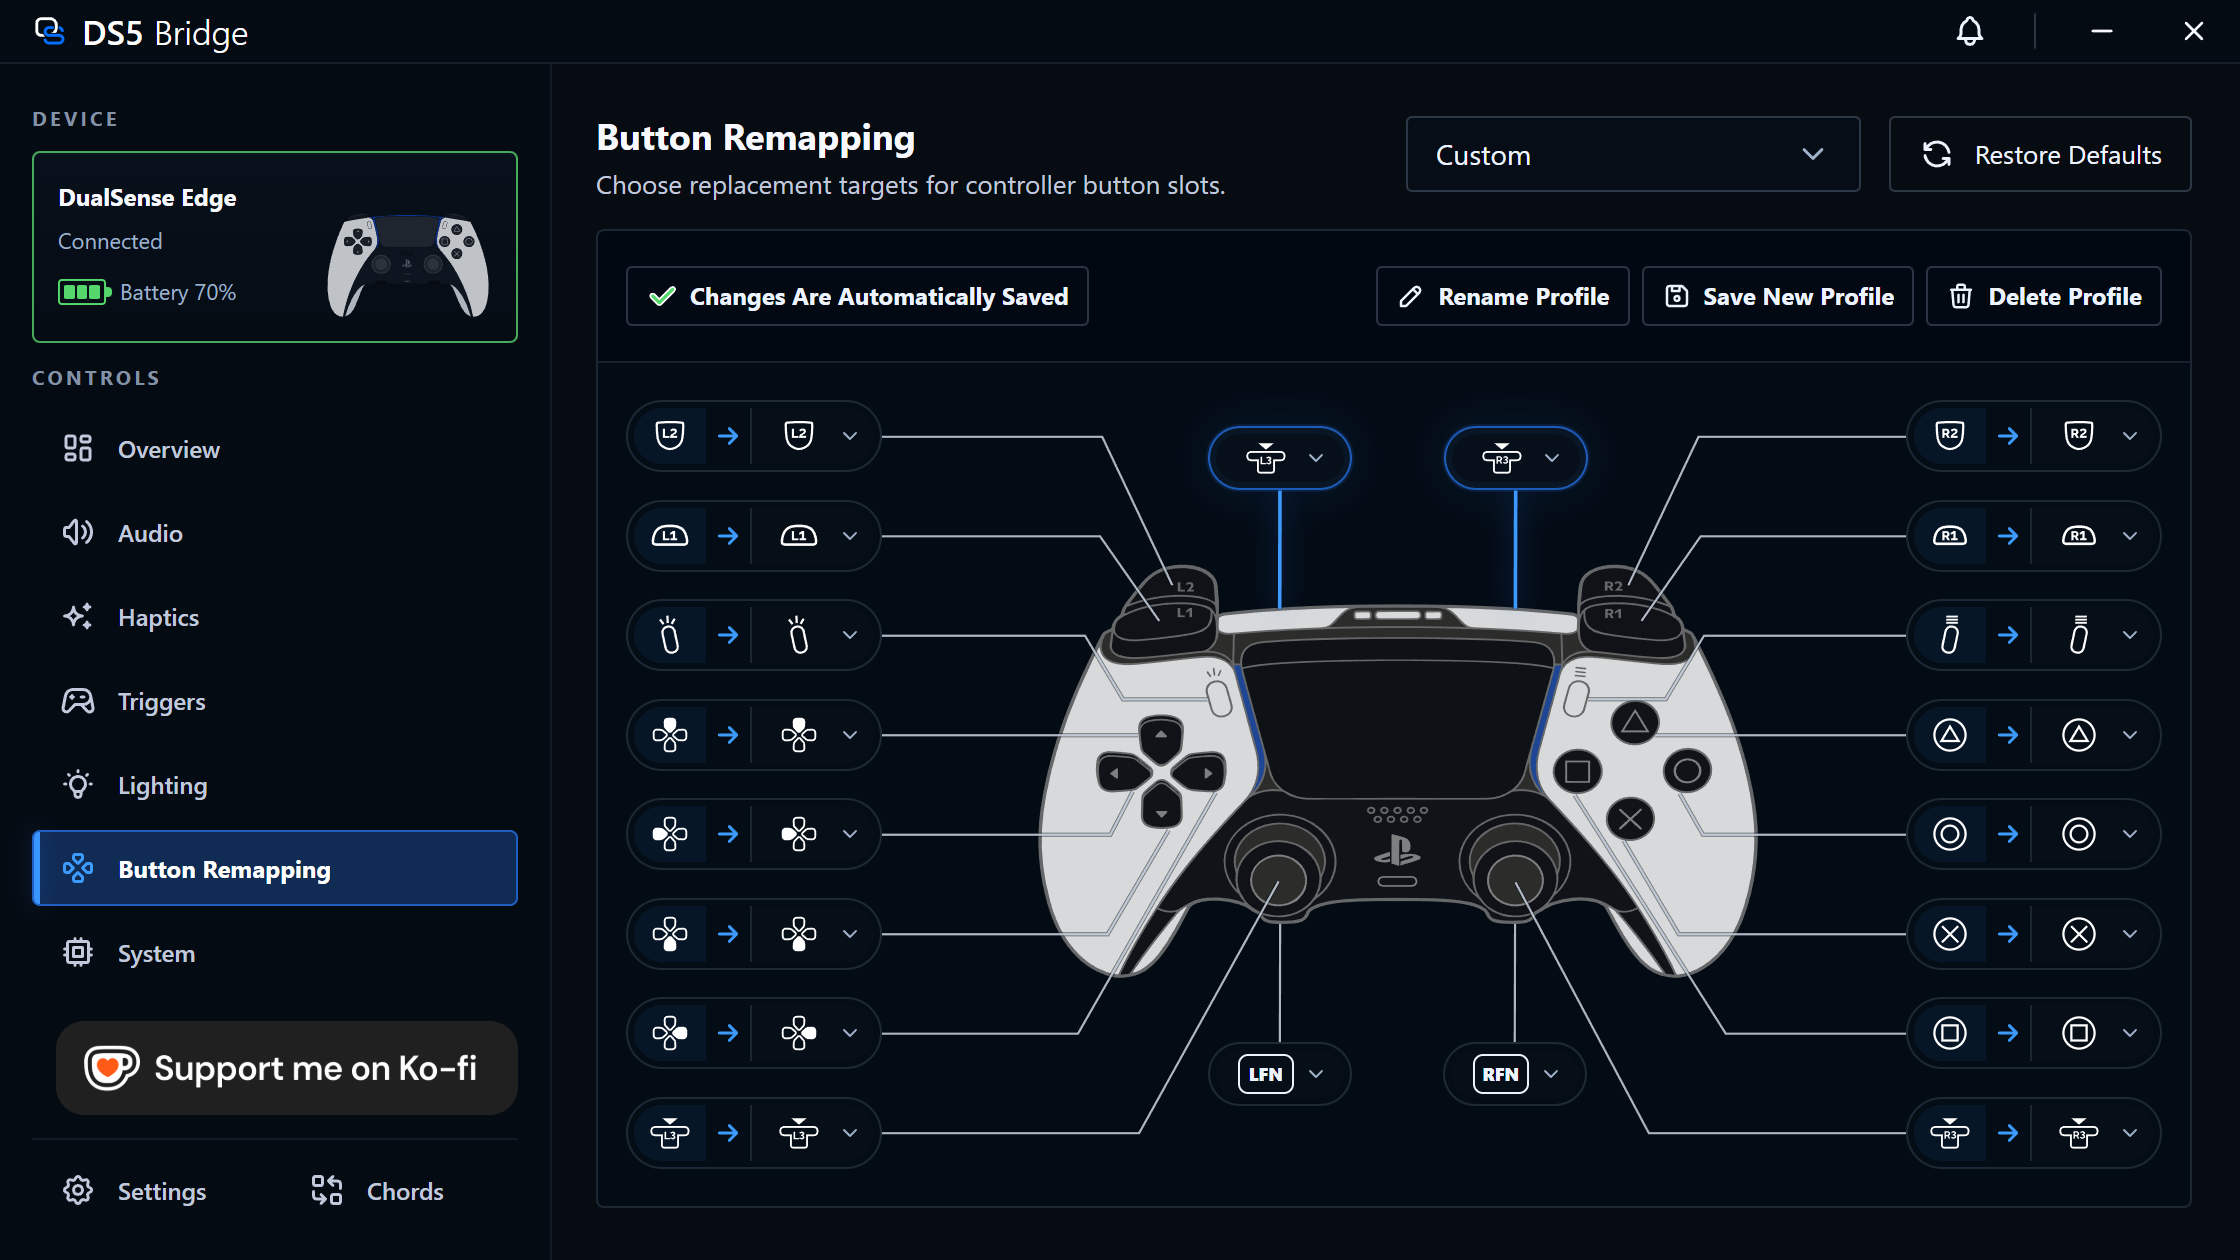
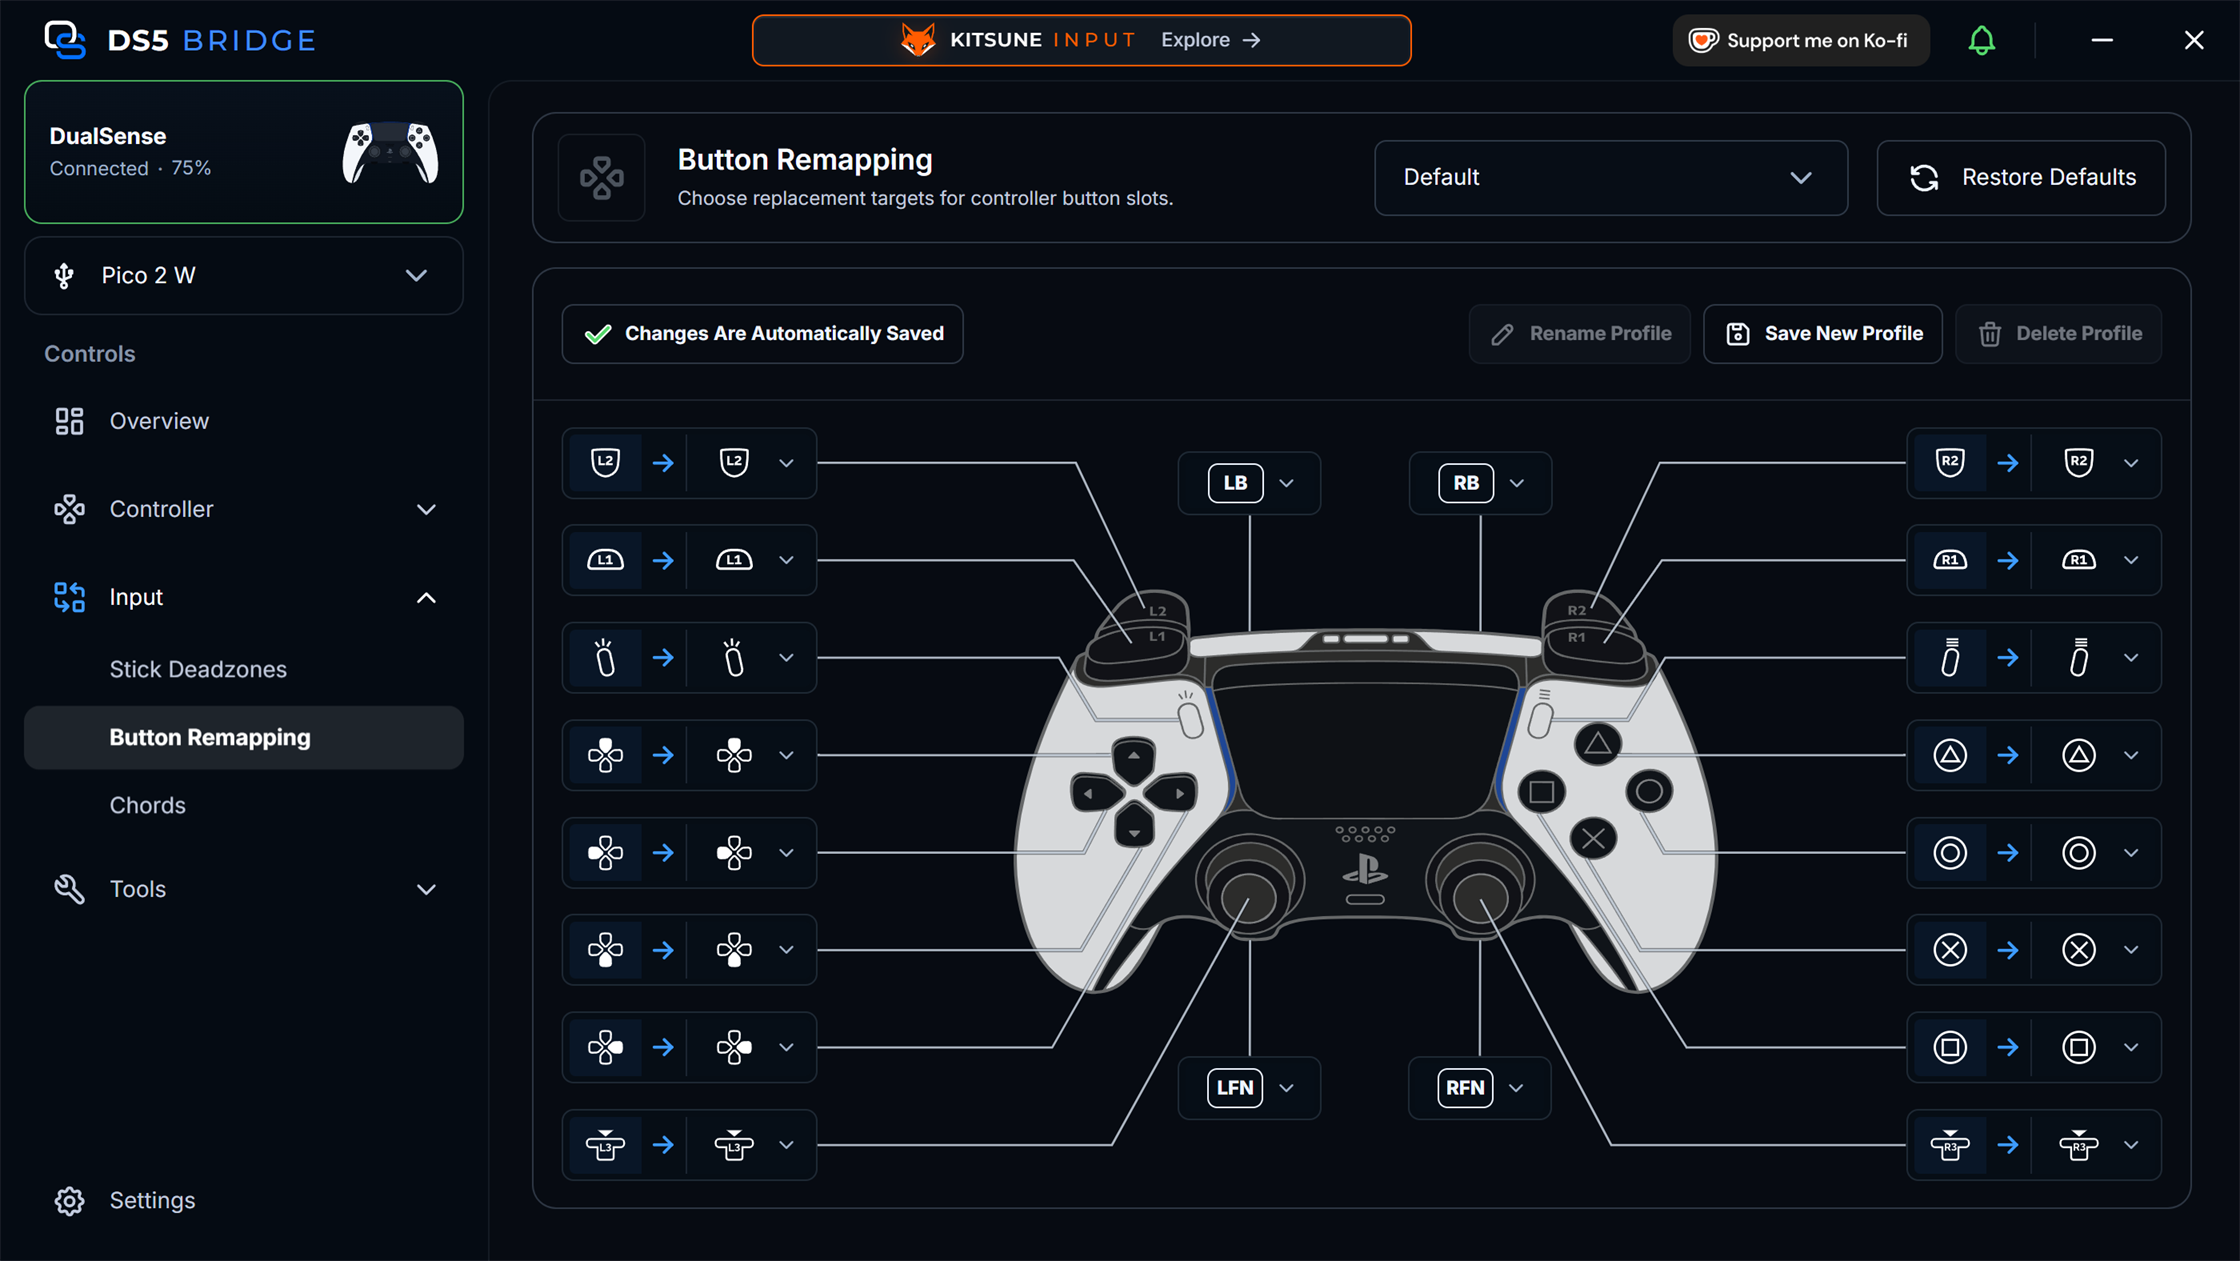
docs: put Kitsune Input up front and show the 2.0 app in the README
- An "Out now" Kitsune Input banner sits under the 2.0 announcement, built
  from the app's fox, wordmark and fonts: "Make your controller yours.",
  the feature chips, $7.99 one-time on Ko-fi. The banner and an orange
  "Get Kitsune Input" button go to Ko-fi through kitsuneinput.com/buy;
  "Learn more" goes to kitsuneinput.com. All links carry
  ?src=ds5-readme so the site can count README clicks apart from the
  app's ds5-popup.
- The mid-page "Explore Kitsune Input" paragraph is now "Kitsune Input: Out
  Now": every feature from the in-app offer, DualShock 4 and Switch Pro
  support, the price, both links, and a screenshot of the offer.
- The app tour follows the 2.0 sidebar with fresh dark-theme captures:
  Overview, Devices, DualSense (Audio, Haptics, Adaptive Triggers,
  Lighting), Stick Deadzones, Button Remapping, Chords, Audio Haptics,
  Trigger Lab, System, Settings and Wake PC. The 1.6.3 captures are
  replaced; the Bridge Settings dialog image is gone with the dialog, and
  Block Edge Profile Switching is pointed to Settings > Shortcuts.
- Releases ship Waveshare RP2350B-Plus-W firmware too, so the badge, intro,
  Quick Start (with each board's release file), Features and Requirements
  name both boards. Features adds stick deadzones, the Devices page, and
  several bridges each with their own settings.

diff --git a/README.md b/README.md
@@ -9,7 +9,7 @@
   <a href="LICENSE"><img src="https://img.shields.io/badge/license-AGPL--3.0--only-blue.svg" alt="License: AGPL-3.0-only"></a>
   <a href="https://github.com/SundayMoments/DS5_Bridge/releases/latest"><img src="https://img.shields.io/github/v/release/SundayMoments/DS5_Bridge?label=release" alt="Latest release"></a>
   <br>
-  <img src="https://img.shields.io/badge/platform-Windows%20companion%20app%20%7C%20Pico%202%20W%20firmware-287cff" alt="Platform: Windows companion app and Raspberry Pi Pico 2 W firmware">
+  <img src="https://img.shields.io/badge/platform-Windows%20companion%20app%20%7C%20Pico%202%20W%20and%20Waveshare%20firmware-287cff" alt="Platform: Windows companion app, Raspberry Pi Pico 2 W and Waveshare RP2350B-Plus-W firmware">
 </p>
 
 <p align="center">
@@ -22,9 +22,19 @@
   firmware updates confirmed on the controller, and a steadier connection.
 </p>
 
+<p align="center">
+  <a href="https://kitsuneinput.com/buy?src=ds5-readme"><img src="assets/readme/kitsune-input-out-now.png" width="820" alt="Kitsune Input is out now. Make your controller yours: per-game profiles, shift layers, gyro aim and flick stick, touchpad gestures, multi-actions, Xbox Series X mode, DualShock 4 and Switch Pro support. $7.99 one-time purchase on Ko-fi."></a>
+</p>
+
+<p align="center">
+  <a href="https://kitsuneinput.com/buy?src=ds5-readme"><img src="https://img.shields.io/badge/Get%20Kitsune%20Input-%247.99%20one--time-ff6a18?style=for-the-badge" alt="Get Kitsune Input: $7.99 one-time purchase"></a>
+  <a href="https://kitsuneinput.com/?src=ds5-readme"><img src="https://img.shields.io/badge/Learn%20more-kitsuneinput.com-1b2533?style=for-the-badge" alt="Learn more at kitsuneinput.com"></a>
+</p>
+
 DS5 Bridge lets you use a real Sony DualSense or DualSense Edge controller
-wirelessly on a Windows PC through a Raspberry Pi Pico 2 W. The controller pairs
-to the Pico over Bluetooth, and the Pico plugs into your PC over USB.
+wirelessly on a Windows PC through a Raspberry Pi Pico 2 W or a Waveshare
+RP2350B-Plus-W. The controller pairs to the board over Bluetooth, and the board
+plugs into your PC over USB.
 
 The companion app gives you a clean place to adjust audio, haptics, trigger
 strength, lighting, button remaps, shortcuts, firmware tools, and other
@@ -32,8 +42,10 @@ controller behavior without rebuilding firmware.
 
 ## Quick Start
 
-1. Download the firmware `.uf2` and Windows companion installer from
-   [Releases](https://github.com/SundayMoments/DS5_Bridge/releases/latest).
+1. Download the firmware for your board and the Windows companion installer
+   from [Releases](https://github.com/SundayMoments/DS5_Bridge/releases/latest):
+   `DS5-Bridge-Firmware-v….uf2` for a Pico 2 W, or
+   `DS5-Bridge-Firmware-Waveshare-v….uf2` for a Waveshare RP2350B-Plus-W.
 2. With the Pico 2 W unplugged, hold `BOOTSEL`, then connect it to your PC.
 3. Copy the `.uf2` file onto the Pico drive that appears in Windows.
 4. Briefly press `BOOTSEL` once, then wait about one second for the Pico to open
@@ -66,12 +78,17 @@ on the controller until its lightbar rapidly blinks blue.
 
 ## Features
 
-- Use a DualSense or DualSense Edge wirelessly through a Pico 2 W.
+- Use a DualSense or DualSense Edge wirelessly through a Pico 2 W or a
+  Waveshare RP2350B-Plus-W.
 - Use the controller speaker, headset jack, microphone, and audio-driven haptics.
 - Tune audio, haptics, adaptive triggers, and lighting from the Windows app.
 - Use Audio Haptics to turn system or app audio into controller feedback.
 - Save controller setups as profiles.
-- Remap buttons and assign chord shortcuts.
+- Remap buttons, set stick deadzones, and assign chord shortcuts.
+- See the current and last controllers on the Devices page, and pair or forget
+  controllers from there.
+- Use more than one bridge and switch between them from the sidebar; each
+  keeps its own settings.
 - Switch the host persona between DualSense, DualSense Edge, DualShock 4, and Xbox modes.
 - See Bluetooth signal quality at a glance.
 - Wake a sleeping or shut-down PC by turning on the controller (Wake-on-LAN).
@@ -106,46 +123,123 @@ so no other program on the PC can reflash the bridge. The first time, the app
 pairs this PC with the bridge the same way. Three brief `BOOTSEL` presses, or
 holding `BOOTSEL` while plugging in the Pico, still work without the app.
 
-## Explore Kitsune Input
+## Kitsune Input: Out Now
 
-DS5 Bridge is a complete, free, and open-source bridge experience. For deeper
-controller customization, explore [Kitsune Input](https://kitsuneinput.com/),
-with advanced stick and trigger tuning, gyro aim, touchpad gestures, per-game
-profiles, multi-actions, Kitsune Game Bar, and expanded controller personas.
+**Kitsune Input** is a separate Windows app from the developer of DS5 Bridge,
+for the bridge you already own. DS5 Bridge stays complete, free, and open
+source; Kitsune Input adds:
 
-[Learn more](https://kitsuneinput.com/) ·
-[Purchase Kitsune Input](https://ko-fi.com/s/d1f0a3b26f)
+- Auto-switching per-game profiles
+- Shift layers
+- Gyro aim and flick stick
+- Touchpad gestures
+- Multi-actions
+- Stick and trigger tuning
+- Xbox Series X mode
+- Game Bar overlay and keyboard
+- Support for DualShock 4 and Switch Pro Controller too
+
+**$7.99, a one-time purchase on Ko-fi.** Your purchase supports the developer
+of DS5 Bridge.
+
+**[Get Kitsune Input](https://kitsuneinput.com/buy?src=ds5-readme)** ·
+[Learn more](https://kitsuneinput.com/?src=ds5-readme)
+
+<p align="center">
+  <img src="assets/readme/app-kitsune-input.png" width="680" alt="The Kitsune Input offer, opened from the banner at the top of the DS5 Bridge companion app">
+</p>
 
 ## Companion App Tour
 
 The companion app is where you check the bridge, adjust the controller, and save
 the setup you actually want to play with.
 
+The sidebar groups the pages: **Overview**, **Controller** (Devices,
+DualSense), **Input** (Stick Deadzones, Button Remapping, Chords), and
+**Tools** (Audio Haptics, Trigger Lab, System), with **Settings** at the
+bottom. The bridge picker under the controller card switches between bridges.
+
 ### Overview
 
 See connection health, firmware version, battery, audio route, Bluetooth signal
-quality, host persona, and the settings most likely to matter during play.
+quality, and the controls most likely to matter during play. Quick Actions
+switch the host persona between DualSense, DualSense Edge, DualShock 4, and
+Xbox, or put the controller to sleep.
 
 <p align="center">
   <img src="assets/readme/app-overview.png" width="680" alt="Overview dashboard in the DS5 Bridge companion app">
 </p>
 
-### Audio
+### Devices
 
-Control the controller speaker, headphone-jack route, microphone level, speaker
-gain, and buffer length.
+See the current and last controllers with their address, pairing, and battery.
+Pair a new controller or forget saved ones.
 
 <p align="center">
-  <img src="assets/readme/app-audio.png" width="680" alt="Audio controls in the DS5 Bridge companion app">
+  <img src="assets/readme/app-devices.png" width="680" alt="Devices page in the DS5 Bridge companion app">
 </p>
 
-### Haptics
+### DualSense
 
-Adjust HD haptics, classic rumble, feedback boost, and audio buffer length, then
-test the feel before opening a game.
+One page with a tab for each part of the controller.
+
+**Audio:** the controller speaker, headphone-jack route, microphone level,
+speaker gain, and buffer length.
 
 <p align="center">
-  <img src="assets/readme/app-haptics.png" width="680" alt="Haptics and rumble controls in the DS5 Bridge companion app">
+  <img src="assets/readme/app-audio.png" width="680" alt="DualSense audio controls in the DS5 Bridge companion app">
+</p>
+
+**Haptics:** HD haptics, classic rumble, and feedback boost, with a test to feel
+it before opening a game.
+
+<p align="center">
+  <img src="assets/readme/app-haptics.png" width="680" alt="DualSense haptics and rumble controls in the DS5 Bridge companion app">
+</p>
+
+**Adaptive Triggers:** trigger strength and test effects.
+
+<p align="center">
+  <img src="assets/readme/app-triggers.png" width="680" alt="Adaptive trigger controls in the DS5 Bridge companion app">
+</p>
+
+**Lighting:** lightbar brightness and color, or let the app manage the
+lightbar.
+
+<p align="center">
+  <img src="assets/readme/app-lighting.png" width="680" alt="Lighting controls in the DS5 Bridge companion app">
+</p>
+
+### Stick Deadzones
+
+Remove center drift with an independent radial deadzone for each stick, with a
+live view of the raw and adjusted position.
+
+<p align="center">
+  <img src="assets/readme/app-stick-deadzones.png" width="680" alt="Stick deadzone controls in the DS5 Bridge companion app">
+</p>
+
+### Button Remapping
+
+Change what each controller button does; changes are saved as you go, and can
+be kept as named profiles.
+
+<p align="center">
+  <img src="assets/readme/app-button-remapping.png" width="680" alt="Button remapping controls in the DS5 Bridge companion app">
+</p>
+
+### Chords
+
+Create reusable keyboard, media, and controller actions, then assign them to
+PS, LFN, or RFN plus a button.
+
+DualSense Edge reserves LFN/RFN plus the face buttons for onboard profile
+switching. Enable **Block Edge Profile Switching** in **Settings > Shortcuts**
+to use those combinations as DS5 Bridge chords; turning it off keeps the
+assignments saved but inactive.
+
+<p align="center">
+  <img src="assets/readme/app-chords.png" width="680" alt="Chord assignment controls in the DS5 Bridge companion app">
 </p>
 
 ### Audio Haptics
@@ -156,72 +250,39 @@ Turn system audio or an app session into controller haptic feedback.
   <img src="assets/readme/app-audio-haptics.png" width="680" alt="Audio Haptics controls in the DS5 Bridge companion app">
 </p>
 
-### Triggers
-
-Set adaptive trigger strength, try effects, or open Trigger Lab for per-trigger
-profiles.
-
-<p align="center">
-  <img src="assets/readme/app-triggers.png" width="680" alt="Adaptive trigger controls in the DS5 Bridge companion app">
-</p>
-
 ### Trigger Lab
 
-Build and preview adaptive trigger effects before applying them to the controller.
+Build and preview adaptive trigger effects for each trigger before applying
+them to the controller.
 
 <p align="center">
   <img src="assets/readme/app-trigger-lab.png" width="680" alt="Trigger Lab controls in the DS5 Bridge companion app">
 </p>
 
-### Lighting
-
-Choose lightbar brightness and color, or let the app manage lighting behavior
-for you.
-
-<p align="center">
-  <img src="assets/readme/app-lighting.png" width="680" alt="Lighting controls in the DS5 Bridge companion app">
-</p>
-
-### Button Remapping
-
-Change what each controller button does, then save the remap when you are happy
-with it.
-
-<p align="center">
-  <img src="assets/readme/app-button-remapping.png" width="680" alt="Button remapping controls in the DS5 Bridge companion app">
-</p>
-
 ### System
 
-Manage profiles, mute button behavior, polling rate, host persona, diagnostics,
-and device repair.
+Manage controller profiles, mute button behavior, polling rate, host persona,
+diagnostics, and device repair.
 
 <p align="center">
   <img src="assets/readme/app-system.png" width="680" alt="System controls in the DS5 Bridge companion app">
 </p>
 
-### Chords
-
-Create reusable keyboard, media, and controller actions, then assign them to
-starter chords.
-
-DualSense Edge reserves LFN/RFN plus the face buttons for onboard profile
-switching. Enable **Block Edge Profile Switching** in Bridge Settings to use
-those combinations as DS5 Bridge chords; turning it off keeps the assignments
-saved but inactive.
-
-<p align="center">
-  <img src="assets/readme/app-chords.png" width="680" alt="Chord assignment controls in the DS5 Bridge companion app">
-</p>
-
 ### Settings
 
-Set language, theme, UI scale, tray and startup behavior, firmware maintenance,
-Wake PC, power saving, LEDs, shortcuts, idle disconnect, and PC sleep
-disconnect.
+Set language, theme, scale, tray and startup behavior, notifications,
+connection and power, lights, shortcuts, Wake PC, and bridge firmware. Search
+finds any setting by name.
 
 <p align="center">
-  <img src="assets/readme/app-bridge-settings.png" width="680" alt="Bridge Settings dialog in the DS5 Bridge companion app">
+  <img src="assets/readme/app-settings.png" width="680" alt="Settings page in the DS5 Bridge companion app">
+</p>
+
+**Wake PC** sets up waking the PC from the controller, over USB or
+Wake-on-LAN.
+
+<p align="center">
+  <img src="assets/readme/app-wake-pc.png" width="680" alt="Wake PC settings in the DS5 Bridge companion app">
 </p>
 
 ## Troubleshooting
@@ -247,9 +308,9 @@ disconnect.
 
 ## Requirements
 
-- Raspberry Pi Pico 2 W.
+- Raspberry Pi Pico 2 W or Waveshare RP2350B-Plus-W.
 - Sony DualSense or DualSense Edge controller.
-- Data-capable USB cable with a micro-USB end for the Pico 2 W.
+- Data-capable USB cable that fits your board (micro-USB on the Pico 2 W).
 - Windows for the companion app.
 
 ## For Developers
